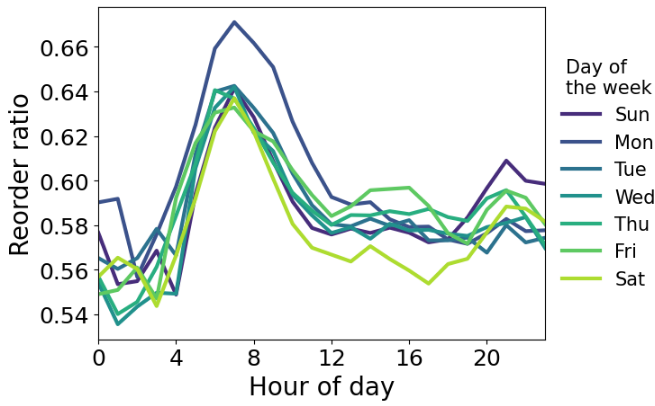
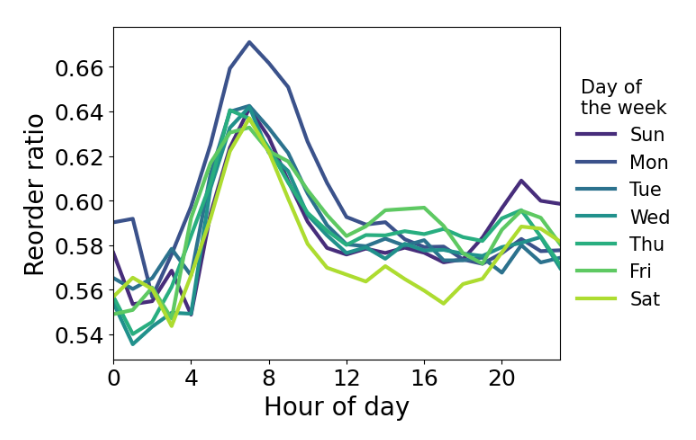
working point

Changed region(s): [[0.0, 0.0591, 1.0, 1.0], [0.1527, 0.0, 0.8244, 0.0296], [0.0611, 0.0887, 0.1832, 0.1773]]

diff --git a/content/project/instacart_dataset_EDA/index.md b/content/project/instacart_dataset_EDA/index.md
@@ -235,4 +235,35 @@ By replacing `order_dow` with `order_hour_of_day`, the same code can be used to 
 
 {{< figure src="/images/Instacart040718.png" class="round" >}}
 
+insight:
+just observing plot of day of week vs order volume for different departments is hard to interpret as there are 21 departmentas. however after careful observation, when plots are normalized and grouped together four kind of main patterns can be seen
+- peroduce daity egs pantry meat seafood frozen deli canned goods dry good pasta etc are bought on weekend times, especially a lot on sunday and we see a 43% drop at Thursday
+- babies hourhold personal care pet related product show a very similar pattern with dsunday peak however the midweek dip near thursday is lesser, 25%. Thus day to day purchase pattern is more unifrorm here
+- beverage breakfast snack related items have a  peak on Monday nstead and another small peak on Friday
+- alcohol has a very different pattern all of these, they get stocked ob Friday with a strong peak with sunday being the dip for alcohol purchase
+
+From similar grouping for the day of week vs order volume plots we find
+- In each department the allmost sme purchase is done between 9-10 am to 3-4 pm. however in that region some peaks can be seen
+- beverage breakfast snacks have a peak at morning time around 10 pm
+- produce dairy eggs household has a shorter peak at morning time.
+- bakery canned goods deli meat seafpod panry and pets department has uniform purchase in this range
+- dry goods pasta and frozen department has a small peak at 3 pm 
+- alcohol has a even larger peak around 3pm
+
+ocerall in conclusion we would say beverage breakfast snacks and alcohol are department groups that diverge strongly in purchase behaviour from other departments: alchold having a 3pm and Friday peaks, and beverage breakfast snacks has morning peaks with Monday peaks and shorter Friday peaks
+
+
+
+
+# Variation in Reorder Ratio
+
+
+{{< figure src="/images/Instacart173811.png" class="round" >}}
+
+
+
+
+# Fake date
+{{< figure src="/images/Instacart034656.png" class="round" >}}
+
 
